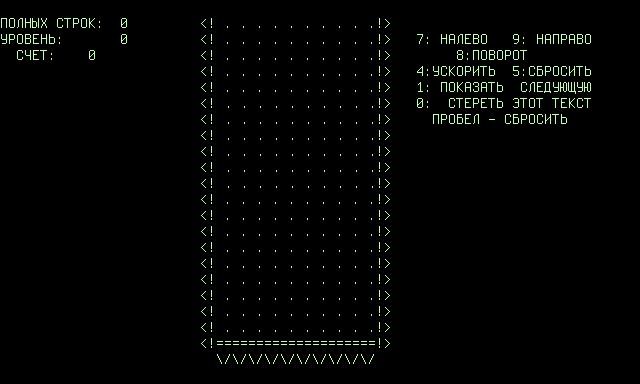
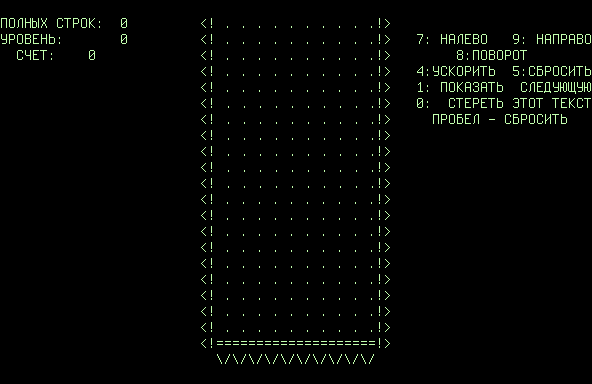
Fixed screen width

diff --git a/Web3s/js/firsttetris.js b/Web3s/js/firsttetris.js
@@ -8,13 +8,14 @@
  *
  ***************************************************************************/
 
-// [ ] max score / lvl / full rows
+// [x] max score / lvl / full rows
 // [x] next
 // [x] pause / resume
 // [x] game over
 // [ ] visual fx + cursor
 // [ ] stop hum on blur
-// [ ] screen width
+// [x] screen width
+// [ ] keys
 
 var loaders = [];
 var images = {};
@@ -275,6 +276,7 @@ var keyStates = [];
 $(function () { // wait for document to load
     // keyboard handler
     $(document).on("keydown", function (e) {
+        console.log(e.which);
         if ($.inArray(e.which, [37, 103, 55, 39, 105, 57, 38, 104, 56, 32, 100, 52, 40, 82, 97, 49, 102, 54, 80, 19]) >= 0) {
             if (!keyStates[e.which]) {
                 if ($.inArray(e.which, [32, 100, 52, 40]) >= 0) {

diff --git a/Web3s/css/firsttetris.css b/Web3s/css/firsttetris.css
@@ -1,0 +1,6 @@
+html { height: 100%; }
+body { background-color: black; font-family: 'Helvetica Neue',Helvetica,Arial,sans-serif; font-size: 14px; color: #505050; height: 100%; margin: 0; padding: 0; min-height: 200px; position: relative; min-width: 270px; } 
+#game { position: absolute; left: 50%; margin-left: -296px; top: 50%; margin-top: -192px; }
+#share { position: absolute; height: 30px; width: 270px; line-height: 30px; text-align: center; background-color: white; left: 50%; margin-left: -135px; top: 100%; margin-top: -30px; }
+a { color: #505050; text-decoration: none; }
+a:hover { text-decoration: underline; }

diff --git a/Web3s/firsttetris.html b/Web3s/firsttetris.html
@@ -1,12 +1,12 @@
 <!DOCTYPE html>
 <html>
 	<head>
-		<link rel="stylesheet" type="text/css" href="css/dostetris.css">
+		<link rel="stylesheet" type="text/css" href="css/firsttetris.css">
 		<title>ТЕТРИС</title>
 	</head>
 	<body>
 		<div id="game">
-			<canvas id="screen" width="640" height="384"></canvas>
+			<canvas id="screen" width="592" height="384"></canvas>
 		</div>
 		<div id="share">
 			Share on: 
